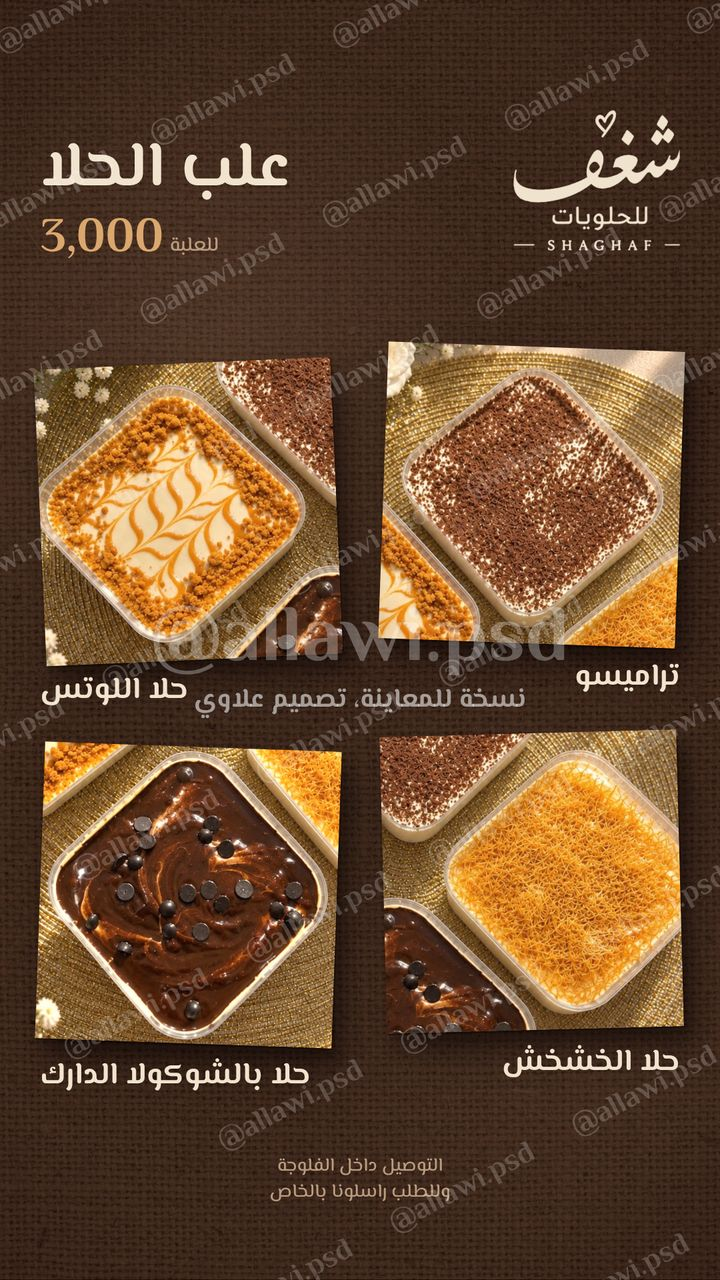
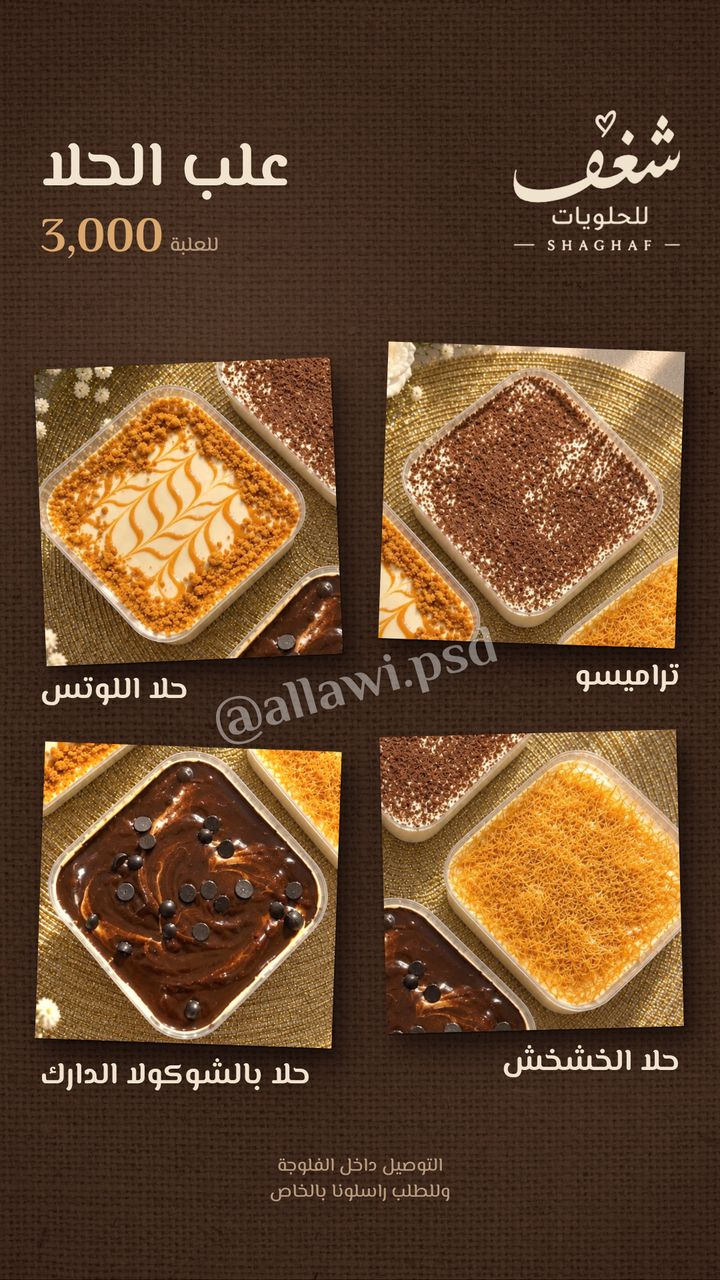
Shaghaf menu: one mark per preview instead of a tiled watermark

diff --git a/marketing/shaghaf-menu/menu.html b/marketing/shaghaf-menu/menu.html
@@ -27,7 +27,7 @@
   .txt .p { font-weight: 700; color: var(--caramel); white-space: nowrap; direction: ltr; unicode-bidi: isolate; margin-top: .1em; }
   .txt .p small { font-size: .42em; font-weight: 500; color: var(--soft); margin-left: .3em; }
   .note { position: absolute; font-weight: 500; color: var(--soft); line-height: 1.4; font-size: 28px; }
-  /* preview copies only: a mark across the whole story, over the photos, so it can't be cropped off */
+  /* preview copies only */
   .mark { position: absolute; inset: 0; pointer-events: none; direction: ltr; }
   .grain { position: absolute; inset: 0; pointer-events: none; mix-blend-mode: overlay; opacity: .5; }
 </style>
@@ -107,16 +107,13 @@ function note([x, y, align]) {
 
 const PREVIEW = location.search.includes('preview');
 
-function mark() {
-  let rows = '';
-  for (let y = -300, i = 0; y < 2300; y += 230, i++) {
-    rows += `<text x="${i % 2 ? -140 : 0}" y="${y}" xml:space="preserve">${'@allawi.psd      '.repeat(6)}</text>`;
-  }
-  return `<svg class="mark" viewBox="0 0 1080 1920"><g transform="rotate(-28 540 960)" fill="#fff" fill-opacity=".2"
-      font-family="El Messiri" font-weight="700" font-size="46">${rows}</g>
-    <g font-family="El Messiri" font-weight="700" text-anchor="middle" fill="#fff">
-      <text x="540" y="990" font-size="120" fill-opacity=".3">@allawi.psd</text>
-      <text x="540" y="1060" font-size="40" fill-opacity=".55" style="direction:rtl;unicode-bidi:embed">نسخة للمعاينة، تصميم علاوي</text></g></svg>`;
+// one mark across the lead photo of each story: cropping it out means cropping the dessert
+const MARK = { 'story-1': [810, 790], 'story-2': [735, 720], 'story-3': [540, 1050] };
+
+function mark([x, y]) {
+  return `<svg class="mark" viewBox="0 0 1080 1920"><text x="${x}" y="${y}" transform="rotate(-16 ${x} ${y})"
+    text-anchor="middle" font-family="El Messiri" font-weight="700" font-size="84" fill="#fff" fill-opacity=".42"
+    style="paint-order:stroke" stroke="rgba(40,20,10,.25)" stroke-width="2">@allawi.psd</text></svg>`;
 }
 
 let html = '';
@@ -128,7 +125,7 @@ Object.entries(STORIES).forEach(([id, st], k) => {
       <div class="p" style="font-size:72px">3,000<small>للعلبة</small></div></div>` : ''}
     ${st.t.map(txt).join('')}
     ${note(st.note)}
-    ${grain(k + 4)}${PREVIEW ? mark() : ''}</div>`;
+    ${grain(k + 4)}${PREVIEW ? mark(MARK[id]) : ''}</div>`;
 });
 document.getElementById('frames').innerHTML = html;
 Promise.all([document.fonts.ready, ...[...document.images].map((im) => im.decode())]).then(() => { document.body.dataset.ready = '1'; });

diff --git a/CLAUDE.md b/CLAUDE.md
@@ -101,6 +101,9 @@ everything for Instagram (posts, reels, briefs, sound and transition packs) is i
   Sound for this style (25 Oct): Apple-like UI sound from his two Drive packs, not the low air whooshes and thuds: the
   Apple keyboard click on presses, soft pops on cards, an airy swish on whips, faint ticks on counters, a clean riser,
   one chime for a win (`marketing/iraq-speed-reel/v7/mix.py`). This replaces the 24 Oct "no clicks" rule for such reels.
+- Client previews before payment (29 Oct): send smaller copies (720 px wide JPG) with one @allawi.psd mark laid across
+  the lead photo of each piece; the clean files go after the money. A mark tiled over everything looked like stock
+  watermarks and less like his own work (`marketing/shaghaf-menu`, `node render.cjs` writes both).
 - كاكتوس (`marketing/gift-cactus`) is a small project by a girl who crochets by hand, not a shop: never call it محل.
 - Before making props or images, ask whether to use AI image elements (the user generates them) or 3D (Blender);
   3D renders cost a lot of usage (20 Oct).
